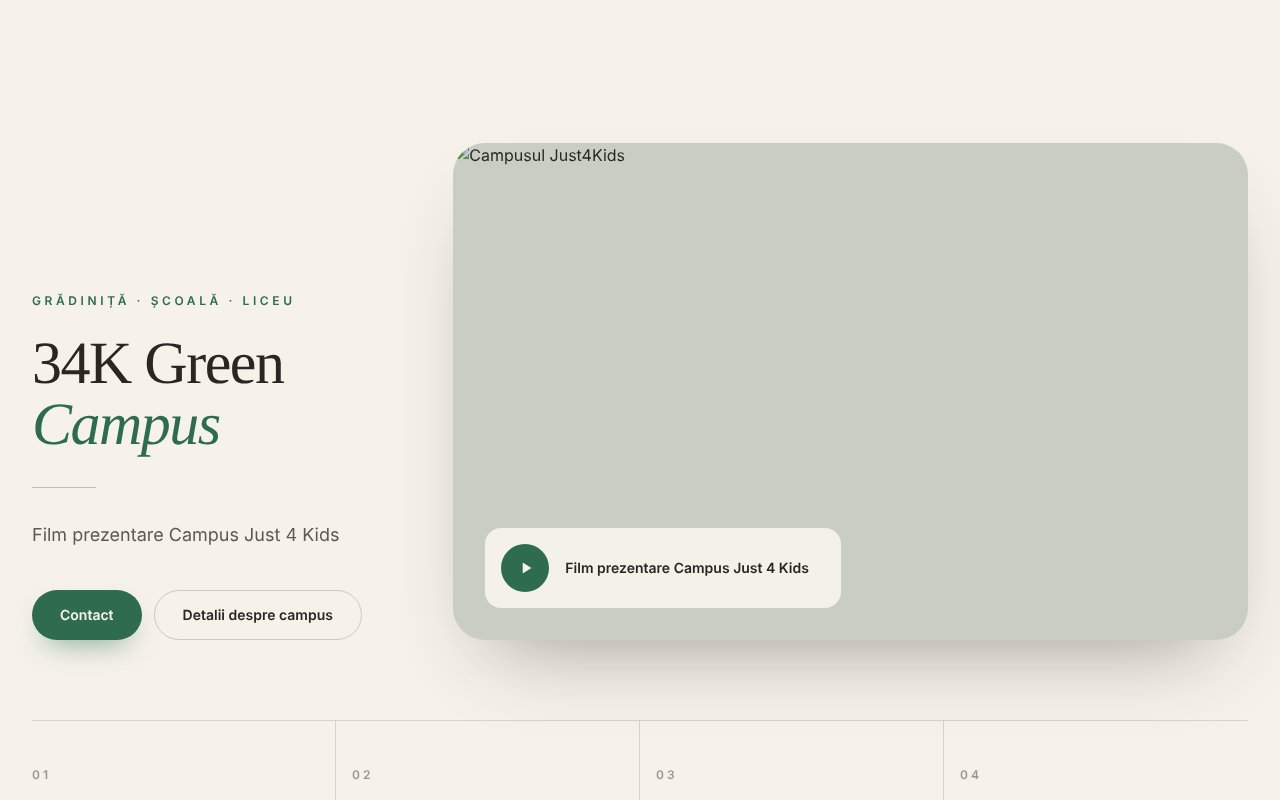
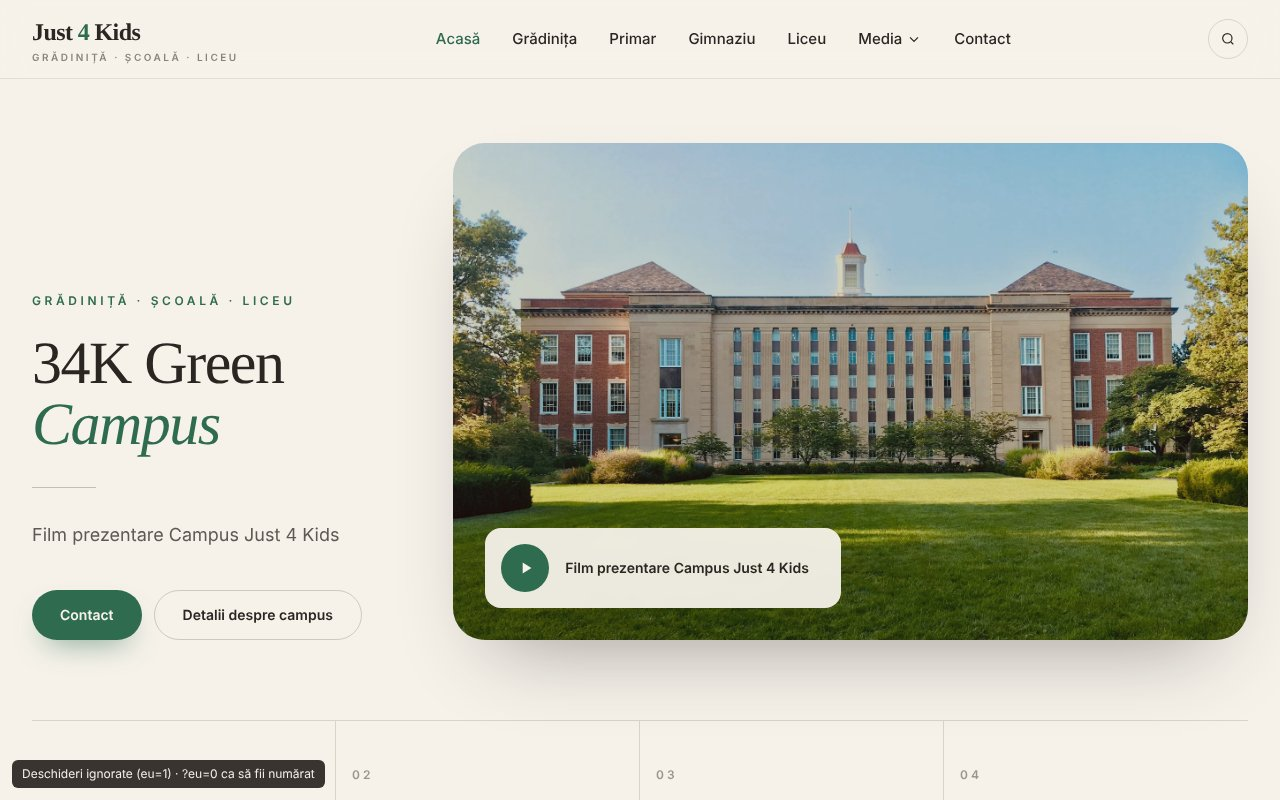
Contact agenție (0722 961 963, WhatsApp), contact J4K Florin, capturi reale, fix tel:
Claude-Session: https://claude.ai/code/session_01WmHwirnogp1X8iraMeydYJ

diff --git a/static/just4kids-propunere/index.html b/static/just4kids-propunere/index.html
@@ -89,12 +89,12 @@ footer{border-top:1px solid var(--rule);padding:22px 0 40px;color:var(--ink-soft
     <h2>Vrei să discutăm?</h2>
     <p>Îți spunem în 15 minute ce presupune trecerea la noul site: etape, durată, cost. Fără obligații.</p>
     <div class="row">
-      <a class="btn wa big" href="https://wa.me/407XXXXXXXX?text=Bun%C4%83%2C%20am%20v%C4%83zut%20propunerea%20pentru%20Just4Kids%20%C8%99i%20a%C8%99%20vrea%20s%C4%83%20discut%C4%83m." target="_blank" rel="noopener">Scrie-ne pe WhatsApp</a>
-      <a class="btn big" href="tel:+40 7XX XXX XXX">Sună: +40 7XX XXX XXX</a>
+      <a class="btn wa big" href="https://wa.me/40722961963?text=Bun%C4%83%2C%20am%20v%C4%83zut%20propunerea%20pentru%20Just4Kids%20%C8%99i%20a%C8%99%20vrea%20s%C4%83%20discut%C4%83m." target="_blank" rel="noopener">Scrie-ne pe WhatsApp</a>
+      <a class="btn big" href="tel:0722961963">Sună: 0722 961 963</a>
     </div>
   </section>
 
-  <footer>Propunere pregătită de <a href="https://digitalguild.agency" style="color:inherit">Digital Guild</a> pentru Just4Kids. Pagină privată, neindexată.</footer>
+  <footer>Propunere pregătită de <a href="https://digitalguild.agency" style="color:inherit">Digital Guild</a> pentru Just4Kids · în atenția Florin. Pagină privată, neindexată.</footer>
 </div>
 <script>
 (function(){var ba=document.getElementById("ba"),r=ba.querySelector("input");
